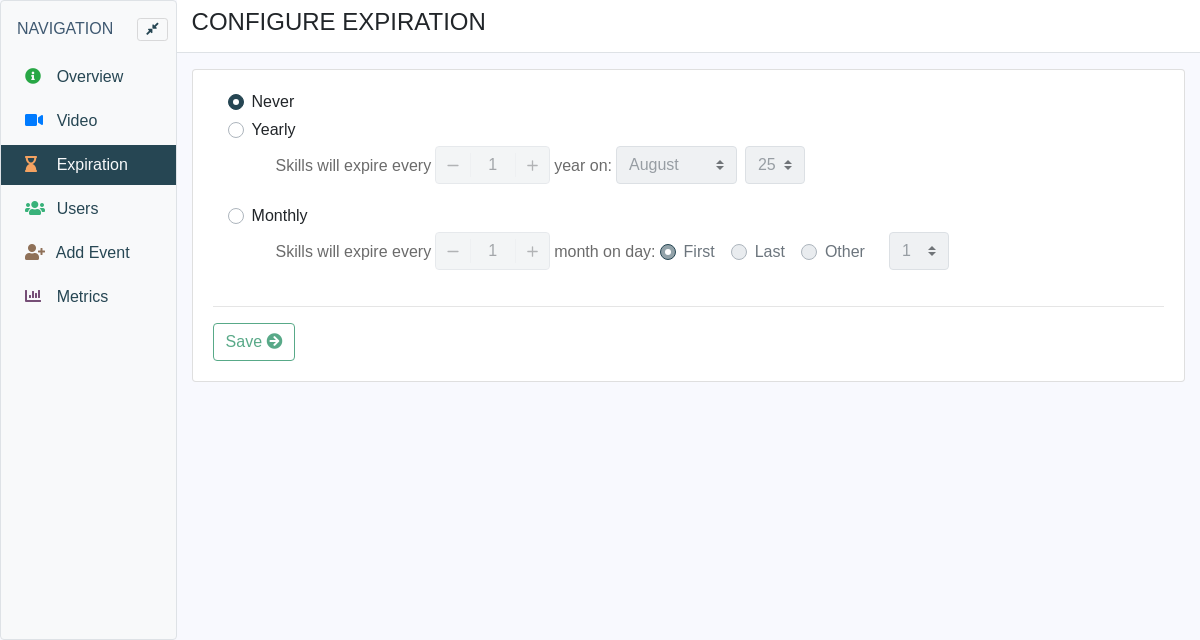
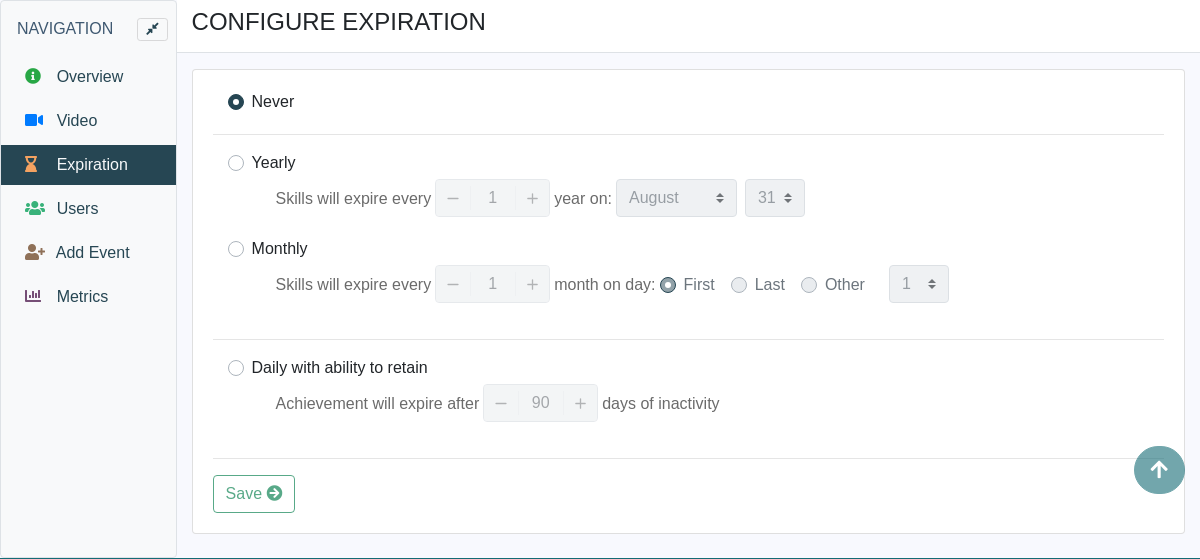
#271 - updated skill expiration docs to include "post achievement" expiration

diff --git a/cypress/integration/admin.js b/cypress/integration/admin.js
@@ -298,7 +298,7 @@ context('Generate Admin Screenshots', () => {
         cy.snap('page-video-config', '[data-cy="nav"]')
     })
 
-    it('Gen Recurring Expiration Settings page', () => {
+    it('Gen Expiration Settings page', () => {
[1 lines of base64/hex data omitted]
         cy.snap('page-expiration-config', '[data-cy="nav"]')
     })

diff --git a/docs/dashboard/user-guide/skills.md b/docs/dashboard/user-guide/skills.md
@@ -97,13 +97,20 @@ and then self-certifying to receive the credit for the skill.
 
 ## Expire Points and Achievements <since project="skills-service" version="2.9" />
 
-Skills can be configured to expire all user's points and achievements, on a scheduled and recurring basis.  For example, you can configure a skill so that *all* user's points and achievements will be removed annually on December 31st. 
+Skills can be configured to expire points and achievements on either a scheduled and recurring basis for all users, or based on usage *after* a user achieves the skill.  
 
-To configure a skill for recurring expiration, please navigate to `Project -> Subject -> Skill -> Expiration`
+To configure a skill for expiration, please navigate to `Project -> Subject -> Skill -> Expiration`
 
 ![Expiration Config Page](../../screenshots/admin/page-expiration-config.png)
 
-By default, skills are not configured to expire any point or achievements.
+The default option for all skills is set to `Never`, so that the skill never expire any points or achievements.
+
+The `Yearly` and `Monthly` options allow for the skill to be configured to expire on a recurring basis.  For example, you can configure a skill so that *all* user's points and achievements earned for this skill will be removed annually on December 31st.  
+
+The `Daily with the ability to retain` option allows for the skill to be configured based on usage. This option requires the user to continue to exercise the skill after achieving it in order to avoid losing their points. Once a user achieves the skill, 
+the user must perform the skill at least once within the number of days configured.  After performing the skill, the "timer" will be reset and the user will once again be required to perform the skill within the configured number of days to avoid losing the points they have earned since achieving this skill.
+
+Skills that are configured to expire will have warnings visualized in the Skills Display, letting the user know when the skill will is set to expire.
 
 ## Copy Skill
 To use an existing Skill as a template for a new Skill, you can use the ![copy skill button](./screenshots/copy_btn.png) button available on a Skill row displayed on the Subject page.
